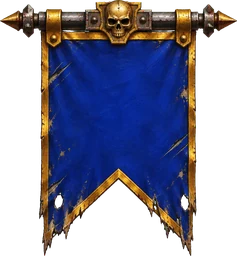
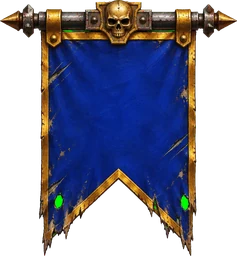
UI keying: flood-fill chroma key from seeds so design greens (Brood seams) survive; correct Brood frame window
Claude-Session: https://claude.ai/code/session_01BpmvtTHERFYrWxnGNyV36z

diff --git a/scripts/process-ui.py b/scripts/process-ui.py
@@ -9,25 +9,39 @@ os.makedirs("public/ui", exist_ok=True)
 meta_path = "public/ui/ui.json"
 meta = json.load(open(meta_path)) if os.path.exists(meta_path) else {}
 
-def key(im: Image.Image) -> Image.Image:
+def key(im: Image.Image, seeds) -> Image.Image:
+    """Flood-fill the chroma green from the seed points only, so green that is part of the
+    design (e.g. glowing seams) is kept. Soft edge + despill on the region's border."""
+    from collections import deque
     im = im.convert("RGBA")
     px = im.load()
     w, h = im.size
-    for y in range(h):
-        for x in range(w):
-            r, g, b, a = px[x, y]
-            gd = g - max(r, b)               # green dominance
-            if gd > 90:                       # solid key
-                px[x, y] = (0, 0, 0, 0)
-            elif gd > 25:                     # soft edge: partial alpha + despill
-                alpha = int(255 * (1 - (gd - 25) / 65))
-                px[x, y] = (r, max(r, b), b, min(a, alpha))
-            elif gd > 0:                      # despill only
-                px[x, y] = (r, max(r, b) + gd // 3, b, a)
+    gd = lambda x, y: (lambda r, g, b, a: g - max(r, b))(*px[x, y])
+    seen = bytearray(w * h)
+    q = deque()
+    for sx, sy in seeds:
+        if gd(sx, sy) > 90: q.append((sx, sy)); seen[sy * w + sx] = 1
+    while q:
+        x, y = q.popleft()
+        r, g, b, a = px[x, y]
+        d = g - max(r, b)
+        if d > 90:
+            px[x, y] = (0, 0, 0, 0)
+        else:  # border pixel: partial alpha + despill, don't spread further
+            alpha = max(0, min(255, int(255 * (1 - (d - 25) / 65)))) if d > 25 else 255
+            px[x, y] = (r, max(r, b), b, min(a, alpha))
+            continue
+        for nx, ny in ((x + 1, y), (x - 1, y), (x, y + 1), (x, y - 1)):
+            if 0 <= nx < w and 0 <= ny < h and not seen[ny * w + nx]:
+                seen[ny * w + nx] = 1
+                if gd(nx, ny) > 0: q.append((nx, ny))
     return im
 
 for i in ids:
-    im = key(Image.open(f"art-drafts/{rnd}/{i}.png"))
+    src = Image.open(f"art-drafts/{rnd}/{i}.png")
+    W, H = src.size
+    seeds = [(W // 2, H // 2)] if i.startswith("frame_") else [(0, 0), (W - 1, 0), (0, H - 1), (W - 1, H - 1), (W // 2, 0), (W // 2, H - 1)]
+    im = key(src, seeds)
     if i.startswith("frame_"):
         w, h = im.size
         a = im.getchannel("A")
